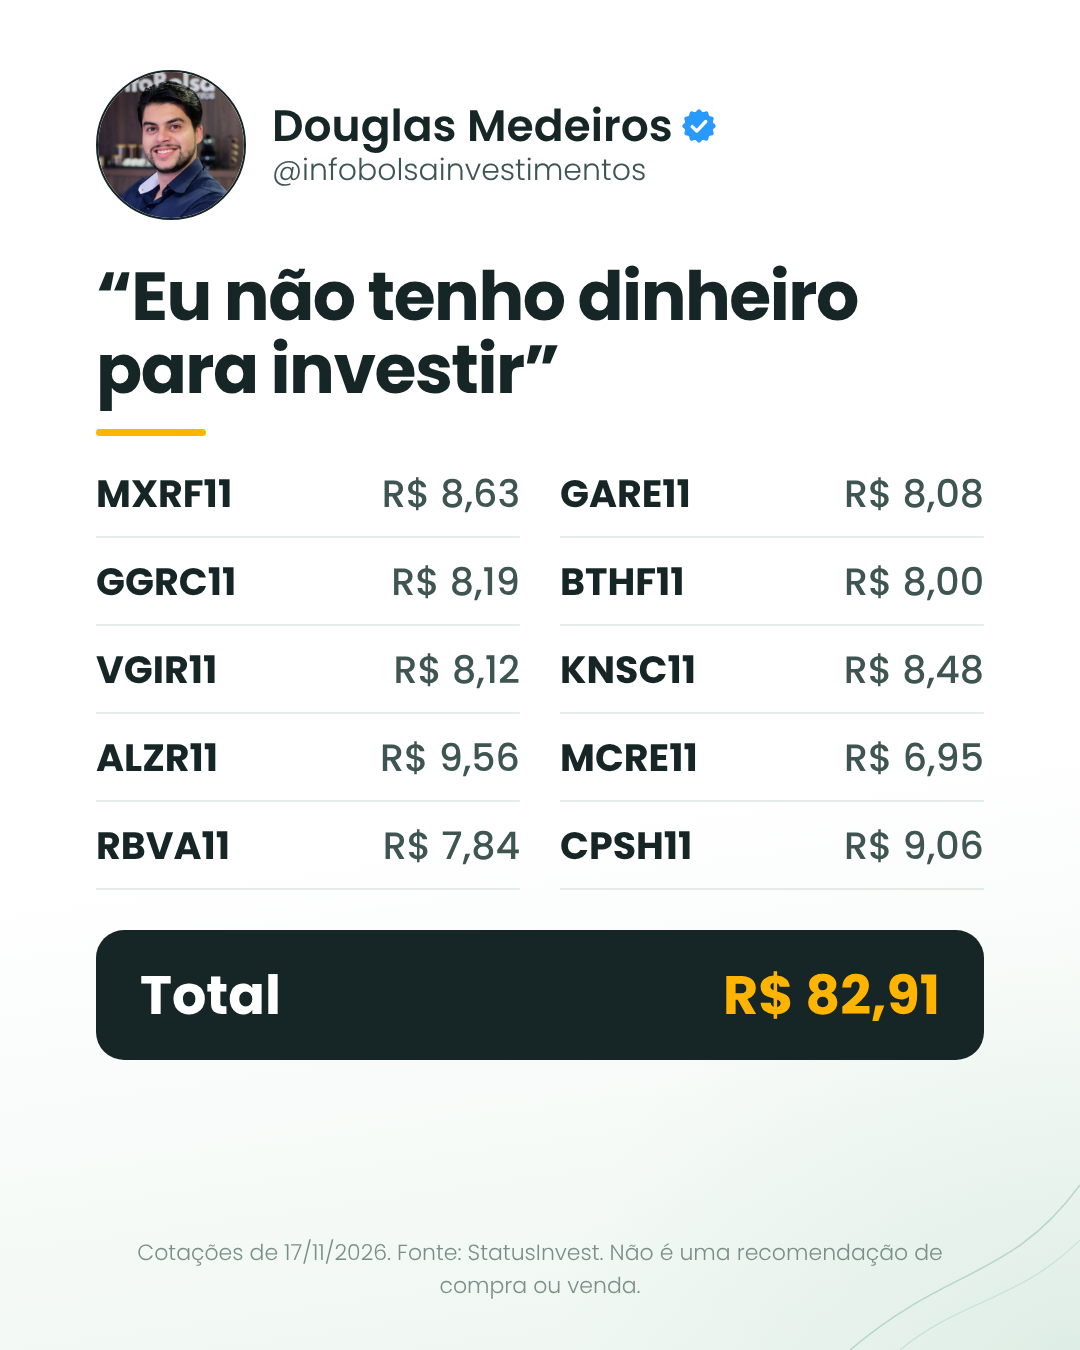
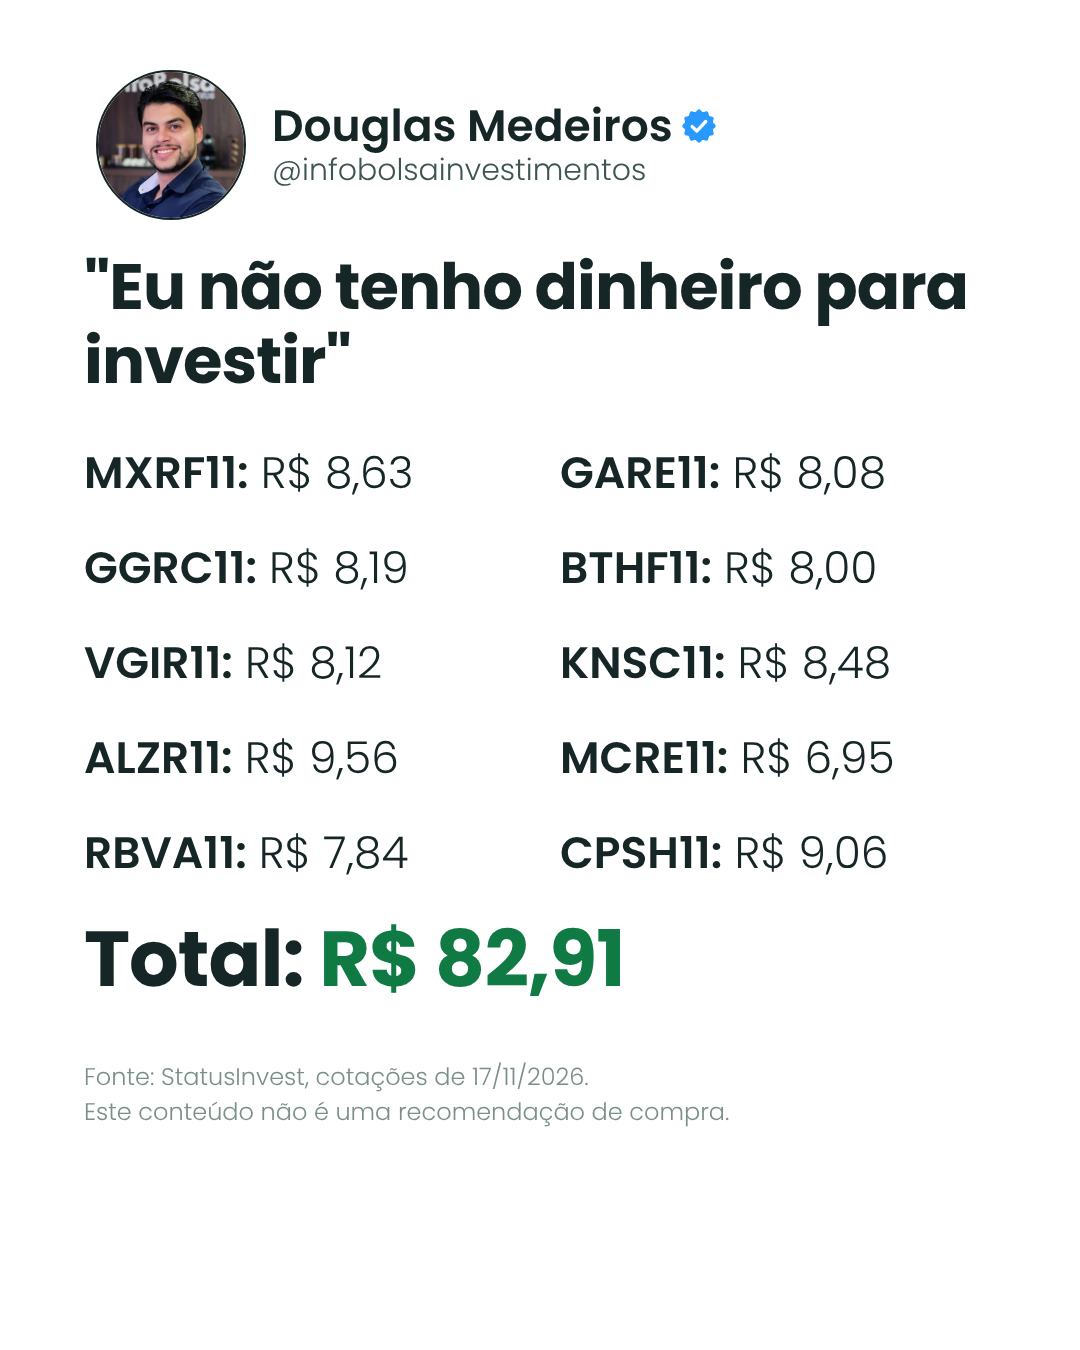
3 posts mais parecidos com as referências
Claude-Session: https://claude.ai/code/session_01V4Ut9U2W4uPbxLAyJQKmJH

diff --git a/kit/gen_ref_tw.py b/kit/gen_ref_tw.py
@@ -1,0 +1,70 @@
+import json, os, sys
+os.chdir("/home/claude/infobolsa-posts/kit")
+sys.path.insert(0, ".")
+from gen_inst import CSS, FS, SELO, SCRIPT
+
+BASE = """
+body{background:#fff!important}
+.cab{top:70px}
+.t{position:absolute;left:84px;right:84px;top:250px;font-weight:700;font-size:var(--ts,62px);line-height:1.15;letter-spacing:-1px;color:#162526}
+.t .n{font-weight:400}
+.l2{position:absolute;left:84px;right:84px;display:grid;grid-template-columns:1fr 1fr;row-gap:30px;column-gap:40px;font-size:44px;color:#162526}
+.l2 b{font-weight:600}
+.tot{position:absolute;left:84px;font-weight:700;font-size:78px;color:#162526;letter-spacing:-1px}
+.tot span{color:#0f7a43}
+.fn{position:absolute;left:84px;right:84px;font-size:24px;line-height:1.45;color:#7b8f8a}
+.br{position:absolute;left:70px;right:60px;display:flex;flex-direction:column;gap:22px}
+.row{display:flex;align-items:center;gap:20px;height:96px}
+.row img{width:96px;height:96px;border-radius:14px;object-fit:contain;flex:none}
+.bar{height:96px;border-radius:12px;display:flex;align-items:center;justify-content:center;color:#fff;font-weight:700;font-size:34px;white-space:nowrap;flex:none}
+.val{font-weight:700;font-size:34px;color:#162526;white-space:nowrap}
+.secs{position:absolute;left:84px;right:84px;display:flex;flex-direction:column;gap:34px}
+.sec h2{margin:0 0 8px;font-weight:700;font-size:54px;color:#162526;letter-spacing:-1px}
+.sec ul{margin:0;padding:0;list-style:none}
+.sec li{font-size:42px;color:#162526;line-height:1.5;padding-left:46px;position:relative}
+.sec li:before{content:'';position:absolute;left:8px;top:30px;width:14px;height:14px;border-radius:50%;background:var(--c)}
+.sec li small{font-size:32px;color:#3f5552}
+"""
+
+
+def pag(corpo, ts=62, cab=True):
+    h = (f'<div class="cab"><div class="ft2"><img src="assets/foto.png" alt=""></div>'
+         f'<div><div class="nm">Douglas Medeiros {SELO}</div><div class="ar">@infobolsainvestimentos</div></div></div>') if cab else ""
+    h = h.replace('class="ft2"', 'class="ft"')
+    return (f'<!doctype html><html lang="pt-BR"><head><meta charset="utf-8"><style>{CSS.replace("FS/", FS)}{BASE}</style></head>'
+            f'<body style="--fg:#162526;--sub:#3f5552;--foto:#162526;--ts:{ts}px">{h}{corpo}{SCRIPT}</body></html>')
+
+
+P = "../pronto/2026-11-17-"
+# 1. FIIs
+c = json.load(open(P + "semdinheiro/config.json"))
+it = "".join(f"<div><b>{t}:</b> R$ {p}</div>" for t, p in c["itens"])
+html = pag(f'<div class="t">"Eu não tenho dinheiro para<br>investir"</div>'
+           f'<div class="l2" style="top:440px">{it}</div>'
+           f'<div class="tot" style="top:900px">Total: <span class="num">R$ {c["total"]}</span></div>'
+           f'<div class="fn" style="top:1060px">Fonte: StatusInvest, cotações de 17/11/2026.<br>Este conteúdo não é uma recomendação de compra.</div>', 64)
+open("r1.html", "w").write(html)
+# 2. Bancos
+c = json.load(open(P + "bancos/config.json"))
+mx = max(x["v"] for x in c["itens"])
+nomes = {"Itaú": "Itaú", "Banco do Brasil": "Banco do Brasil"}
+rows = ""
+for x in c["itens"]:
+    w = max(36, int(600 * x["v"] / mx))
+    txt = x["txt"].replace(" bi", " bilhões").replace(" mi", " milhões").replace("R$ 1,27 bilhões", "R$ 1,27 bilhão")
+    if w > 380:
+        rows += f'<div class="row"><img src="{x["logo"]}" style="background:{x.get("fundo", "transparent")}"><div class="bar" style="width:{w}px;background:{x["cor"]}">{x["nome"]} - {txt}</div></div>'
+    elif w > 200:
+        rows += f'<div class="row"><img src="{x["logo"]}" style="background:{x.get("fundo", "transparent")}"><div class="bar" style="width:{w}px;background:{x["cor"]}">{x["nome"]}</div><div class="val num">{txt}</div></div>'
+    else:
+        rows += f'<div class="row"><img src="{x["logo"]}" style="background:{x.get("fundo", "transparent")}"><div class="bar" style="width:{w}px;background:{x["cor"]}"></div><div class="val num">{x["nome"]} - {txt}</div></div>'
+html = pag(f'<div class="t" style="font-size:52px">🚨 Quanto cada banco lucrou <span class="n">no 3º trimestre (valor em R$):</span> 👇💰🏦</div>'
+           f'<div class="br" style="top:420px">{rows}</div>', 52)
+open("r2.html", "w").write(html.replace(" - ", ": "))
+# 3. Investimento
+sec = lambda t, c, its, top=0: f'<div class="sec" style="--c:{c}"><h2>{t}</h2><ul>' + "".join(f"<li>{i}</li>" for i in its) + "</ul></div>"
+html = pag('<div class="t" style="font-size:76px">ENTENDA DE UMA VEZ:</div><div class="secs" style="top:380px">'
+           + sec("É INVESTIMENTO:", "#0f7a43", ["Tesouro Direto", "CDB, LCI e LCA", "Ações", "Fundos Imobiliários"], 390)
+           + sec("NÃO É INVESTIMENTO:", "#c0392b", ["Consórcio", "Loteria e apostas", "Título de capitalização"], 760)
+           + sec("DEPENDE:", "#d99a00", ["Poupança <small>(rende pouco)</small>", "Previdência Privada <small>(olhe as taxas)</small>"], 1065) + "</div>", 76)
+open("r3.html", "w").write(html)
